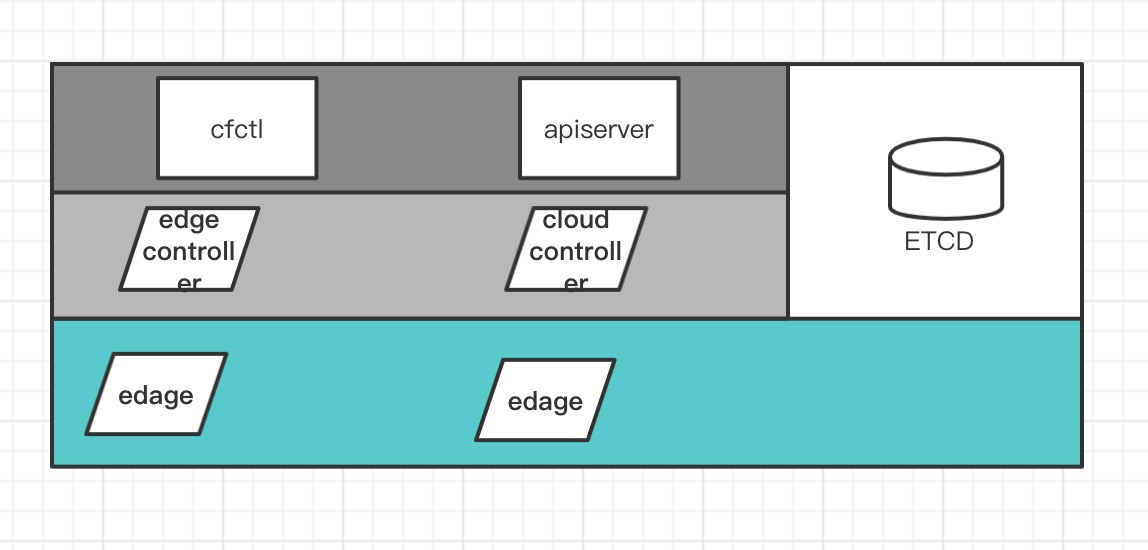
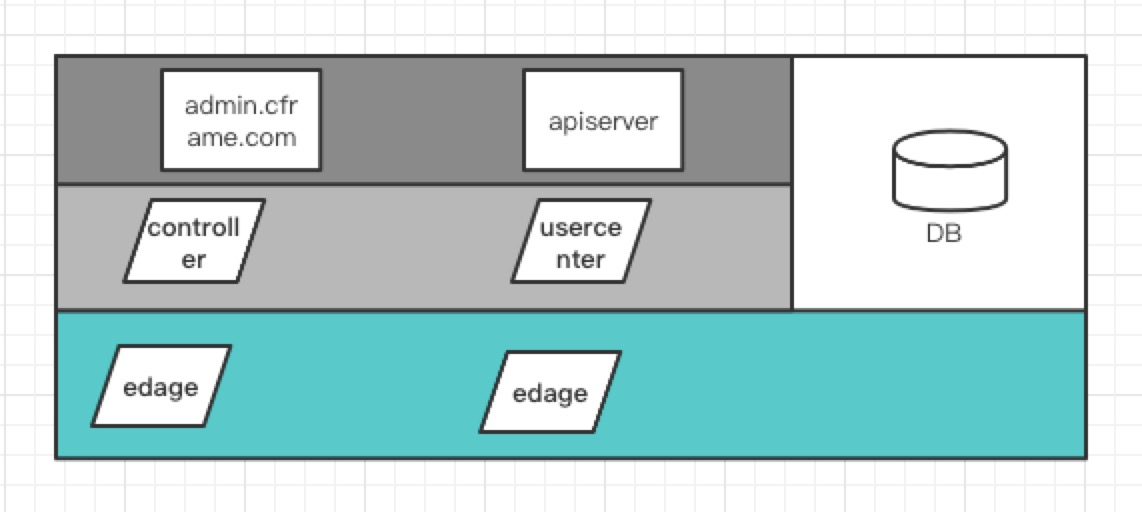
doc: update readme

Changed region(s): [[0.0306, 0.0938, 0.9501, 0.9062], [0.7662, 0.25, 0.8888, 0.4688]]

diff --git a/README.md b/README.md
@@ -1,36 +1,43 @@
 [![Build Status](https://travis-ci.org/ICKelin/cframe.svg?branch=master)](https://travis-ci.org/ICKelin/cframe) ![goreport](https://goreportcard.com/badge/github.com/ICKelin/cframe)
 
-# cframe
-cframe是一款云网融合的网络软件，最终目的是
+# cframe是什么，解决什么问题
+cframe是一款基于公网传输的网络连接技术，通过cframe可以实现企业数据中心，企业公有云多VPC两两之间互联互通。目前已支持数据中心与VPC互联互通，多个VPC之间互联互通。
 
-1. 用于连接公有云和公有云，实现多云互联
-2. 连接公有云与数据中心，实现公有云与idc互联。
+![cframe](doc/images/cframe1.1.0.jpg)
 
+# 功能
+- 公有云多个VPC网络互联互通
+打通多VPC网络，实现跨VPC互通
+
+-  自建idc上云
+打通企业数据中心与公有云，实现多点网络互联互通。
+
+# 优势
+1. 配置简单
+不需要网络工程师的干预，只需要在后台管理系统登记VPC信息以及云虚拟网关部署的公网ip信息，然后运行即可。
+
+2. 免费开源
+cframe是一款开源软件，您可以使用cframe自己搭建自己的一套系统，也可以使用cframe提供了后台管理系统，由于流量不经过cframe的任何服务器，我们提供的后台管理系统也只是负责对数据进行简单的管理，所以这项服务也是免费的。
+
+> cframe提供的后台管理系统运行的apiserver和控制器均为测试环境，会有服务的重启等操作，但是cframe的边缘网关都有自动重连功能。
+
+# 在线测试
 在线demo: [cframe后台管理](http://demo.notr.tech/public)
 ![dashboard](doc/images/dashboard1.jpg)
 
-### 整体架构
-![](doc/images/layer.jpg)
+cframe提供一个在线的[后台管理系统](http://demo.notr.tech/public) **（PS：由于作者本人做前端或者做上层应用比较少，相对而言比较粗糙，走过路过的大佬看到了可以随手帮忙进行优化一下）**。
 
-项目整体而言分为三层。
+通过这个cframe后台管理系统可以进行在线测试，以下为详细步骤：
 
-最上面一层为应用层，面向用户，为用户提供整个系统管理接口，最后将用户配置存储与etcd当中，供下层使用
+## 第一步： 注册&登录
+进入到cframe后台管理系统的[注册页面](http://demo.notr.tech/public/signup.html)，注册成功之后会自动跳转到登录页面，输入用户信息登录即可。
 
-中间为控制器，用于读取存储在etcd当中的用户配置信息，并与下层建立tcp长连接以及路由的添加/删除操作，从而实现edge节点的动态添加与删除。
+## 第二步：新增云授权信息
+如果您希望由cframe帮忙自动管理vpc路由，那么您可以配置云授权信息，以阿里云为例，包括accessKey和accessSecret两个字段。**如果您比较擅长网络配置或者担心我们执行了一些非法操作，那么您也可以不添加，自己在阿里云的控制台添加VPC路由，可以跳到下一步**，该步骤相对比较繁琐，但是只是一次性操作，后续没有特殊情况不需要变更。
 
-最下面一层为边缘节点，也就是真正部署在用户云服务器vpc当中的应用程序，边缘节点会根据配置**自动添加vpc路由**，无需运维与网络工程师干预，因此需要云服务器管理人员开通子账号以及开通部分权限。这个在后续会有说明。
+**创建阿里云子账户**
 
-**vpc互联**
-![](doc/images/cframe1.1.0.jpg)
-
-### 在线测试
-当前已解决阿里云vpc互联，只需要几个步骤即可完成操作。
-
-#### 开通阿里云子账户，并赋予相关权限。
-
-**创建子账户**
-
-进入阿里云控制台RAM访问控制模块，用户，创建用户，登录名称和显示名称均填写cframe，并勾选编程访问。
+进入阿里云控制台RAM访问控制模块，用户，创建用户，登录名称和显示名称均填写cframe，并勾选编程访问。 
 ![](doc/images/ram.jpg)
 
 创建子账号完成之后，需要将accessKey和secretKey保存，后续需要将其配置到edge节点的配置文件当中。
@@ -39,6 +46,7 @@ cframe是一款云网融合的网络软件，最终目的是
 
 在ram访问控制当中，选择权限策略管理，创建权限策略，勾选脚本配置，将以下相关权限粘贴进文本编辑器当中。
 ```
+
 {
     "Version": "1",
     "Statement": [
@@ -60,156 +68,36 @@ cframe是一款云网融合的网络软件，最终目的是
 ```
 
 **添加授权**
-
-选择授权，新增授权，用cframe进行模糊搜索
 ![](doc/images/authorize.jpg)
+
+选择授权，新增授权，用cframe进行模糊搜索 
 
 通过上述配置，完成cframe子账号的创建并授予相关权限，后续无需管理员再进行任何vpc路由相关的操作。
 
-### 使用cfctl添加vpc实例（名称，公网地址:端口，cidr）
-cfctl是cframe系统的管理工具，用于操作用户和边缘节点两大模块。
+## 第三步：新增云虚拟网关
+在cframe后台管理系统当中，点击左侧云虚拟网关管理，新增，输入名称，公网ip，对外端口(udp，默认58423，建议输入默认值，可免去后续环境变量配置)，VPC网段等信息，确认提交
+
+![csp](doc/images/csp.jpg)
+
+> 注意：
+> 云虚拟网关是运行在VPC当中某台服务器的软件，需要具备公网IP，安全组放开对外udp端口。
+
+## 第四步：运行cframe边缘网关程序。
+边缘网关采用docker的方式运行，您可以运行以下命令执行：
 
 ```
-➜ ./cfctl 
-NAME:
-   cfctrl - cfctrl is cframe api server cli.
-
-USAGE:
-   cfctl [global options] command [command options] [arguments...]
-
-COMMANDS:
-   login    login to cframe, access token will store in token.conf
-   edge     edge control(add,del,list,topology)
-   help, h  Shows a list of commands or help for one command
-
-GLOBAL OPTIONS:
-   --help, -h  show help (default: false)
-```
-
-登录cframe，获取到token，cfctl会将token信息保存在token.conf文件当中，在线测试当中，会共用一个用户。
+docker run --privileged --restart=always --net host -e secret=$您的私有key -v /opt/logs/edge:/log -d ickelin/cframe_edge
 
 ```
-➜ ./cfctl login
-login reply:  {"code":20000,"message":"success","data":{"Token":"CrYyW9SITg+HcEIiIrsjvQ==","Username":"cframe"}}
-save loginReply to token.conf
-```
+其中secret环境变量为您的私有key，用于标识您的身份。
 
-获取当前vpc节点状态
-```
-➜ ./cfctl edge topology|jq      
-{
-  "code": 20000,
-  "message": "success",
-  "data": {
-    "edge_node": [
-      {
-        "name": "hk-1",
-        "comment": "",
-        "cidr": "172.31.0.0/16",
-        "host_addr": "47.242.14.118:58423",
-        "status": 0,
-        "type": ""
-      },
-      {
-        "name": "sz-1",
-        "comment": "",
-        "cidr": "172.18.0.0/16",
-        "host_addr": "47.115.82.187:58423",
-        "status": 0,
-        "type": "ali-vpc"
-      }
-    ],
-    "edge_host": []
-  }
-}
-```
+> 注意：
+> 如果您填写的默认端口不为58423，那么需要指定 -e lis=:$您的端口号。
+> 该服务器上应该安装安装tun设备驱动，支持iptables，route等命令。
 
-新增广州1区vpc
+运行成功之后，您将可以在cframe后台管理界面上看到您的节点状态。
 
-```
-➜  ./cfctl edge add --name "gz-1" --hostaddr "47.242.14.188:58423" --cidr "172.20.0.0/16"|jq
-{
-  "code": 20000,
-  "message": "success",
-  "data": null
-}
-➜
-```
-
-获取最新新的节点信息，可以发现广州1区的vpc已加入到测试当中
-
-```
-➜  cfctl git:(develop) ✗ ./cfctl edge topology|jq                                                                 
-{
-  "code": 20000,
-  "message": "success",
-  "data": {
-    "edge_node": [
-      {
-        "name": "gz-1",
-        "comment": "",
-        "cidr": "172.20.0.0/16",
-        "host_addr": "47.242.14.188:58423",
-        "status": 0,
-        "type": ""
-      },
-      {
-        "name": "hk-1",
-        "comment": "",
-        "cidr": "172.31.0.0/16",
-        "host_addr": "47.242.14.118:58423",
-        "status": 0,
-        "type": ""
-      },
-      {
-        "name": "sz-1",
-        "comment": "",
-        "cidr": "172.18.0.0/16",
-        "host_addr": "47.115.82.187:58423",
-        "status": 0,
-        "type": "ali-vpc"
-      }
-    ],
-    "edge_host": []
-  }
-}
-```
-
-由于当前是demo状态，在添加之前建议将其他edge信息删除，以免造成不必要的影响，同时也建议在自己测试完成之后将自己的vpc信息删除，以免影响他人测试。但是系统内置的hk-1vpc不建议删除，该vpc用于验证vpc加入是否成功。
-
-#### 在各个vpc当中部署edge节点
-添加完vpc之后，需要在新的vpc当中部署edge程序，config.toml配置如下;
-
-```
-controller="demo.notr.tech:58422"
-listen_addr=":58423"
-name = "gz-1"
-type = "ali-vpc"
-cframe_secret="y0WBOnDTTZCrj4bo2vau5Q=="
-
-[alivpc]
-access_key=$ACCESS_KEY
-access_secret=$SECRET_KEY
-
-[log]
-level="debug"
-days=3
-path="log/edge.log"
-```
-
-此处cframe key为demo的key，需要将$ACCESS_KEY和SECRET_KEY替换为在第一步当中创建的阿里云子账户的accessKey和secretKey。
-
-配置修改完成后，启动edge程序
-```
-mkdir log
-nohup ./edge -c config.toml &
-```
-
-完成上述步骤之后，就可以进行网络连通性测试了，**系统会保留一个hk-1的edge节点供测试使用，建议不要将该edge删除,**`ping 172.31.185.159` 可进行测试。
-
-**注意:**
-
-    需要打开安全组当中公网udp端口58423的访问权限，该端口用于edge之间的通信。
+![success](doc/images/success.jpg)
 
 ### 最后
 我认为这是个很有意思，也很有意义的工程，奈何本人个人精力有限，希望能有更多的人参与进来，无论你是:
